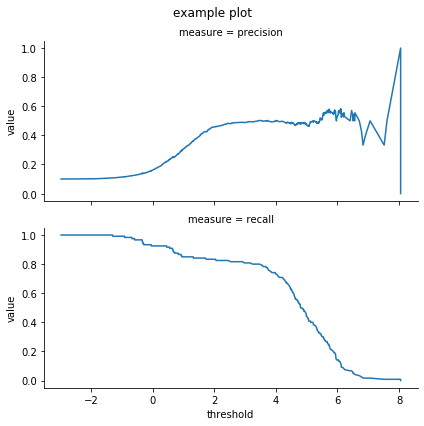
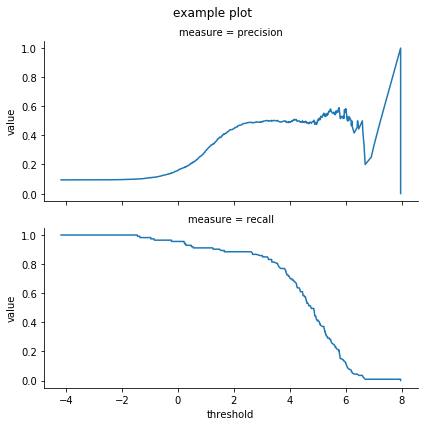
re-render

diff --git a/README.md b/README.md
@@ -16,7 +16,7 @@ wvpy.__version__
 
 
 
-    '0.2.2'
+    '0.2.3'
 
 
 
@@ -34,8 +34,8 @@ wvpy.util.mk_cross_plan(10,2)
 
 
 
-    [{'train': [2, 5, 6, 7, 8], 'test': [0, 1, 3, 4, 9]},
-     {'train': [0, 1, 3, 4, 9], 'test': [2, 5, 6, 7, 8]}]
+    [{'train': [0, 3, 4, 6, 8], 'test': [1, 2, 5, 7, 9]},
+     {'train': [1, 2, 5, 7, 9], 'test': [0, 3, 4, 6, 8]}]
 
 
 
@@ -48,13 +48,14 @@ help(wvpy.util.plot_roc)
 
     Help on function plot_roc in module wvpy.util:
     
-    plot_roc(prediction, istrue, title='Receiver operating characteristic plot', *, truth_target=True)
+    plot_roc(prediction, istrue, title='Receiver operating characteristic plot', *, truth_target=True, ideal_line_color=None)
         Plot a ROC curve of numeric prediction against boolean istrue.
         
         :param prediction: column of numeric predictions
         :param istrue: column of items to predict
         :param title: plot title
-        :param truth_target: value to condider target or true.
+        :param truth_target: value to consider target or true.
+        :param ideal_line_color: if not None, color of ideal line
         :return: calculated area under the curve, plot produced by call.
         
         Example:
@@ -70,6 +71,7 @@ help(wvpy.util.plot_roc)
         wvpy.util.plot_roc(
             prediction=d['x'],
             istrue=d['y'],
+            ideal_line_color = 'lightgrey'
         )
     
 
@@ -96,17 +98,22 @@ d = pandas.concat([
 wvpy.util.plot_roc(
     prediction=d.x,
     istrue=d.y,
+    ideal_line_color="DarkGrey",
     title='Example ROC plot')
 ```
 
 
-![png](output_7_0.png)
+    <Figure size 432x288 with 0 Axes>
+
+
+
+![png](output_7_1.png)
 
 
 
 
 
-    0.8826929012345679
+    0.9017104802533561
 
 
 
@@ -181,6 +188,11 @@ wvpy.util.threshold_plot(
 
 ![png](output_10_0.png)
 
+
+
+```python
+
+```
 
 
 ```python
